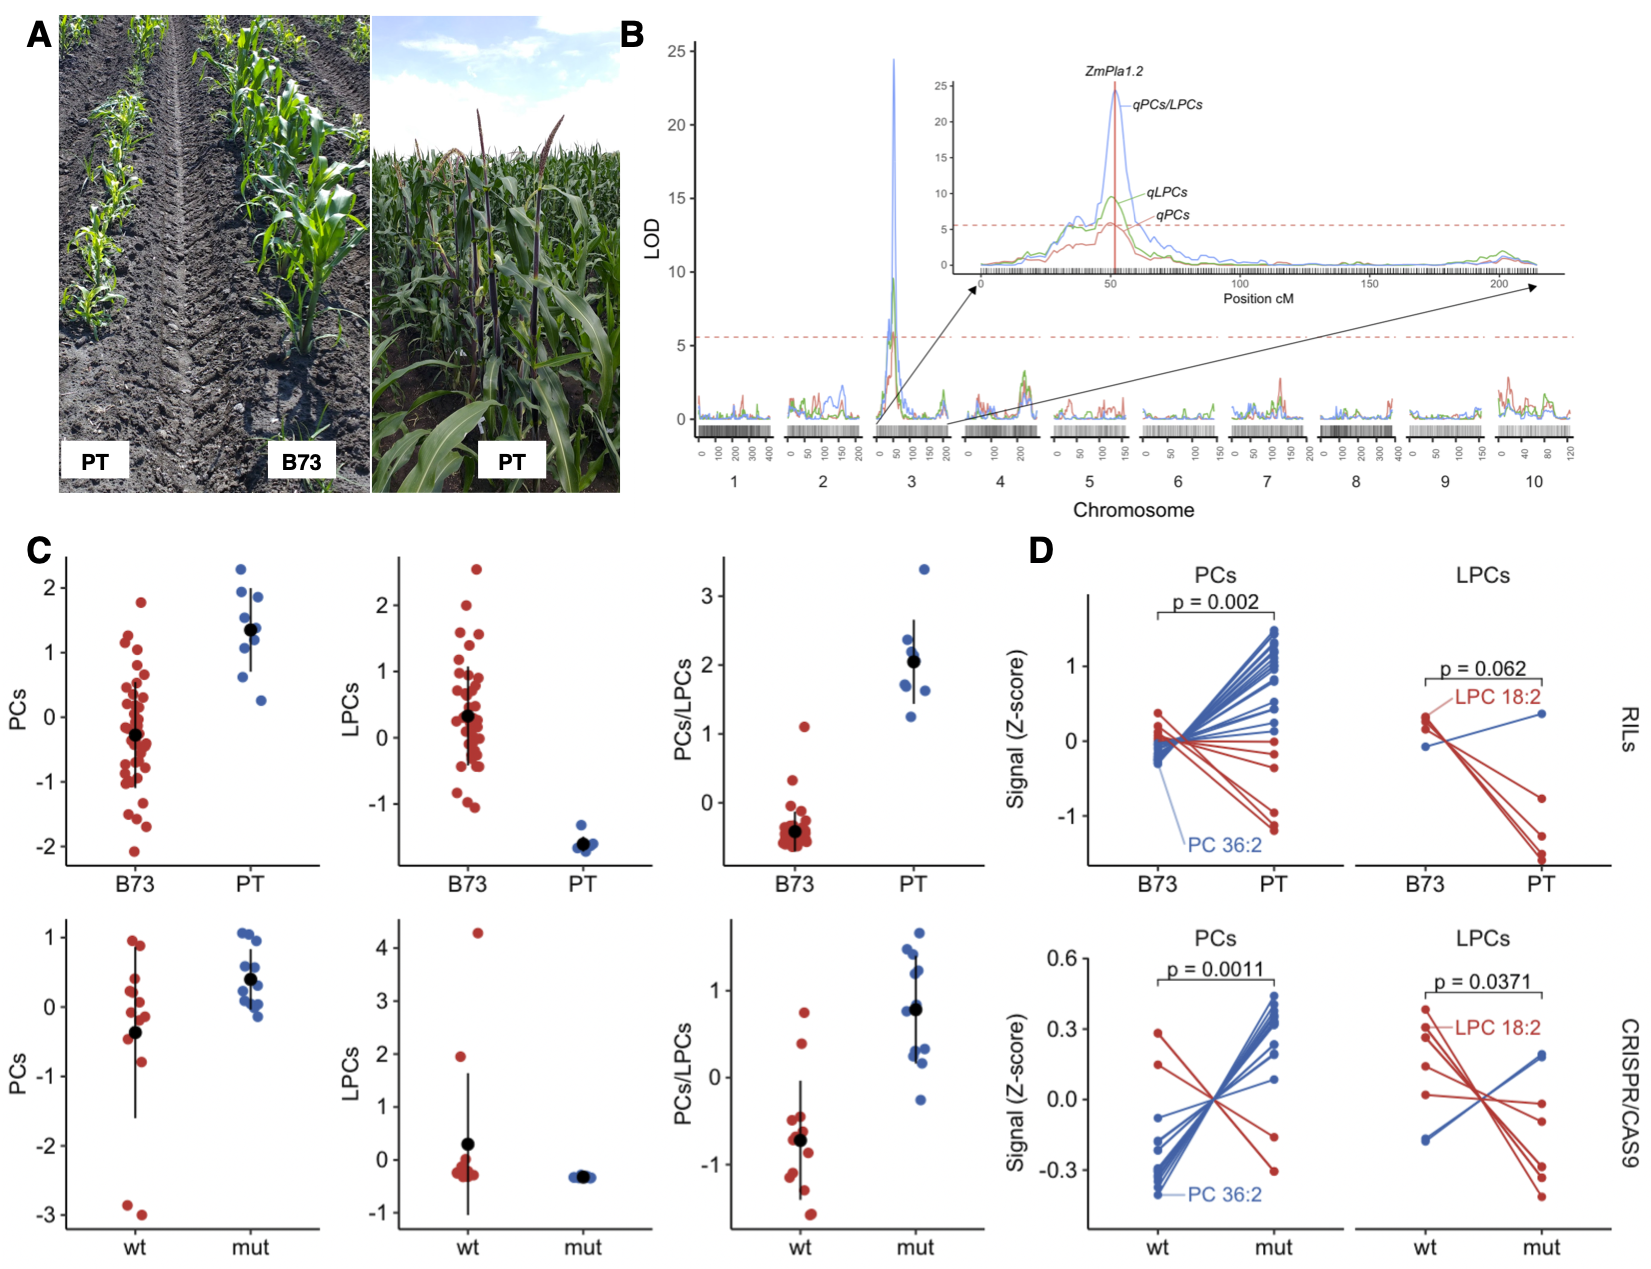
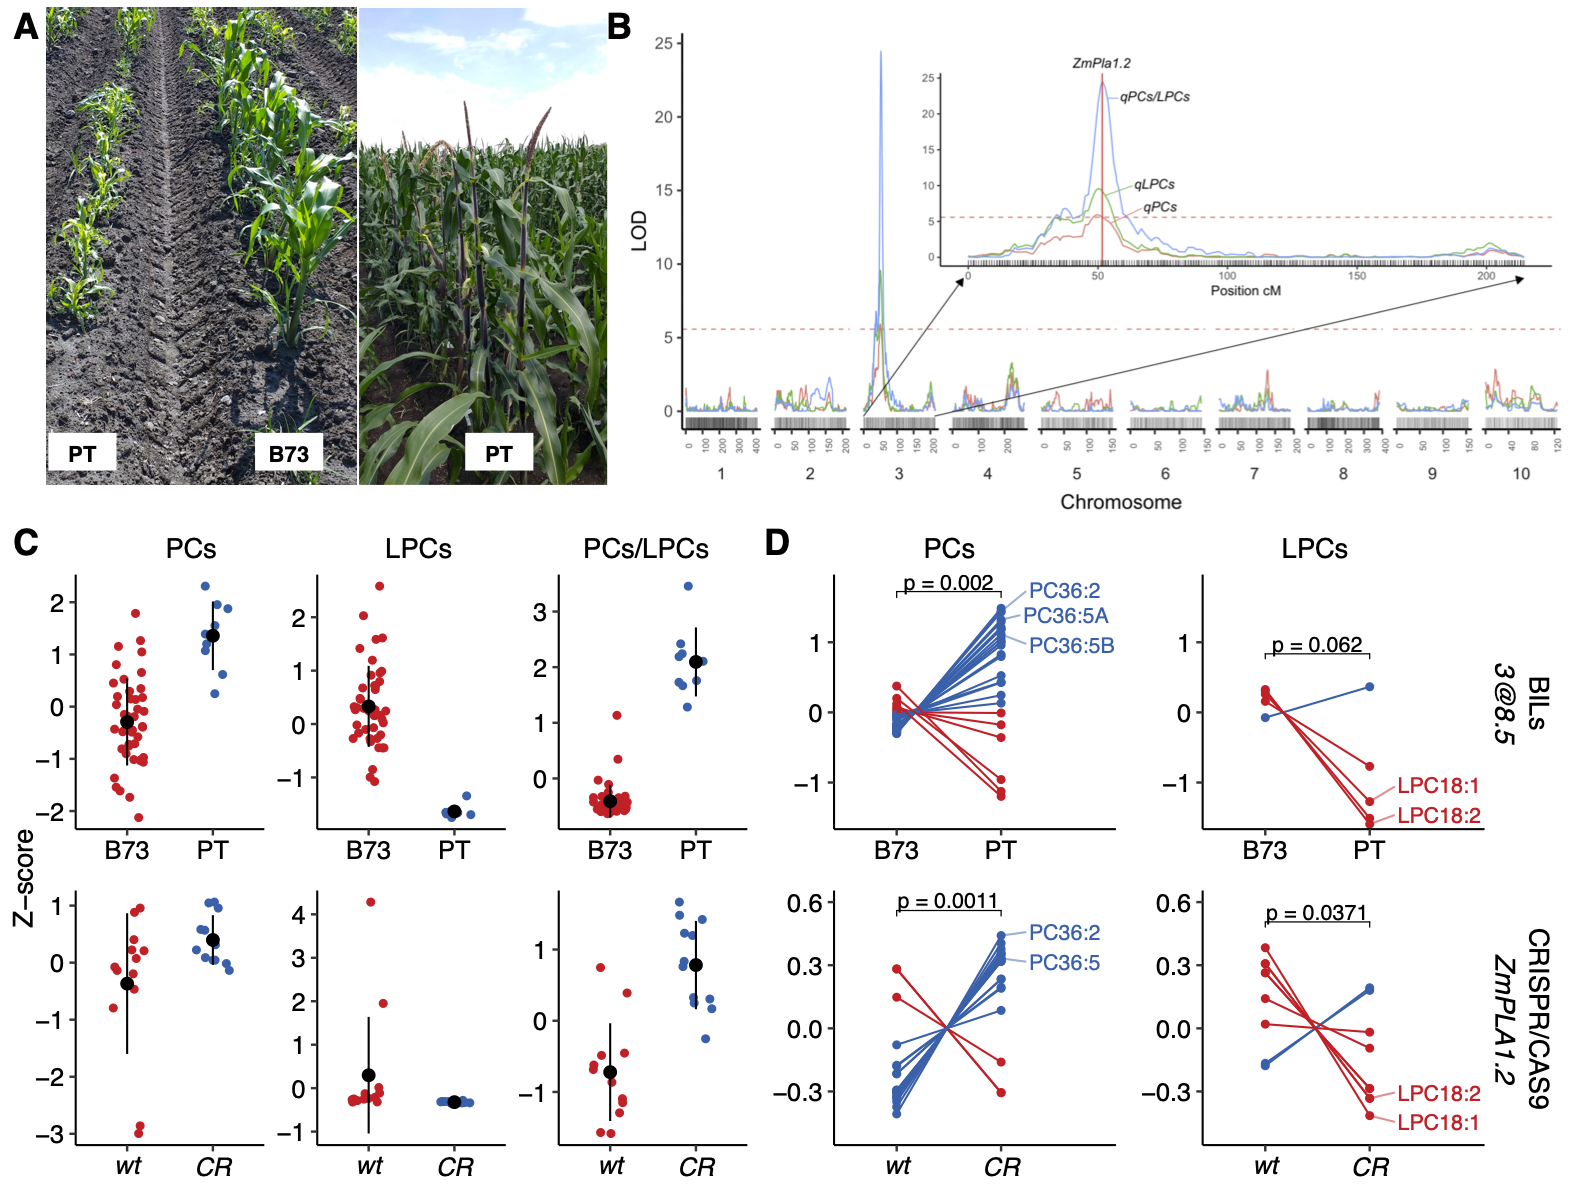
Updates from Overleaf

diff --git a/main.tex b/main.tex
@@ -138,7 +138,7 @@ Finally, there is evidence that early flowering alleles that confer an adaptive 
 %Maize has also adapted to a wide variety of uses, from the myriad culinary applications of local communities growing maize landraces particularly in México \cite{Bellon2018-cm} to the diverse range of products (from ethanol to high fructose syrup) that are produced with modern hybrids in modern agroindustrial operations. 
 %The genetic changes that lead to maize domestication \cite{Doebley1995-su,Doebley1997-oy, Wang2005-by, Clark2006-xh,Dorweiler1993-ik} and maize adaptation to a wider latitudinal range  provide a relatively good understanding of the genetic regions and mechanisms that shaped maize domestication and latitudinal expansion.
 
-Plant glycerolipids, which include phopsholipids, sulfolipids, galactolipids and other less polar lipids such as triacylglycerol, are involved in plant response to abiotic stresses typical of highland environments like low temperature and low phosphorus availability and flowering time.
+Plant glycerolipids, which include phopsholipids, sulfolipids, galactolipids and other less polar lipids such as triacylglycerol, are involved in plant response to stresses typical of highland environments like low temperature, low phosphorus availability and earlier flowering time.
 %In this paper, we posit that phospholipid metabolism has had an important role in maize adaptation to highlands and more generally in maize adaptation to low temperature, low phosphorus availability and flowering time.   
 %Our hypothesis is based on our current knowledge of how plants respond to a number of environmental conditions that are characteristic of highland environments and that affect phospholipid metabolism. 
 In low temperature, two strategies plants use are to increase phospholipid concentration \cite{Degenkolbe2012-wf} and to reduce the levels of unsaturated fatty acids in glycerolipids \cite{Welti2002-uk, Lynch1987-ln} which may help maintain the fluidity of cell membranes.
@@ -157,7 +157,7 @@ We further confirmed this loss of function using a CRISPR-CAS9 knockout in a tem
 Using data from thousands of genotyped landrace testcrosses grown in common garden experiments at different elevations in México, we showed a strong genotype by environment effect of the \textit{ZmPLA1.2} locus, 
 where the highland allele leads to higher fitness in highland environments and reduced fitness at lower elevations. 
 This GxE fitness effect is probably driven by the highland \textit{ZmPLA1.2} allele that is associated with later flowering times in lowland environments and earlier flowering times in highland environments. 
-\textit{ZmPLA1.2} CRISPR-Cas9 mutants grown in similar conditions to lowland environments confirmed this effect.
+\textit{ZmPLA1.2} CRISPR-Cas9 (\textit{ZmPLA1.2\textsuperscript{CR}})mutants grown in similar conditions to lowland environments confirmed this effect.
 Lastly, we showed that the highland PT \textit{ZmPLA1.2} locus is the result of teosinte \textit{mexicana} introgression and that this introgression was further conserved in northern US and European Flints. 
 These results suggest a potential beneficial effect of the \textit{ZmPLA1.2} highland allele in cold, high latitude environments where early flowering time would be advantageous.
 
@@ -188,10 +188,11 @@ The most over-represented intersection of selected genes was SWUS-MH-GH ($p = 1 
 \includegraphics[width=0.7\paperwidth]{Figures/Fig_1.png}
 \caption{Glycerolipid pathway selection. 
 A) Populations used in the Population Branch Excess (PBE)analysis. 
-B) Highland selection of Glycerolipid pathways using PBE. 
-For each pathway, we first selected all SNPs in the CDS regions and 10Kb upstream and downstream of the gene and we calculated the mean pathway PBE score. 
-We then constructed a null distribution by drawing 10000 samples without replacement of $n$ SNPs from those found within or around 10Kb upstream and downstream of all protein coding genes and we obtained the mean PBE for this null distribution. 
-For each pathway, the heat map shows p-values corresponding to the probability of sampling from the null distribution a set of $n$ SNPs with the observed glycerolipid pathway mean PBE score or higher.
+B) Highland selection of Glycerolipid pathways using PBE. See methods for details.
+%For each pathway, we first selected all SNPs in the CDS regions and 10Kb upstream and downstream of the gene and we calculated the mean pathway PBE score. 
+%We then constructed a null distribution by drawing 10000 samples without replacement of $n$ SNPs from those found within or around 10Kb upstream and downstream of all protein coding genes and we obtained the mean PBE for this null distribution. 
+%For each pathway, the heat map shows p-values corresponding to the probability of sampling from the null distribution a set of $n$ SNPs with the observed glycerolipid pathway mean PBE score or higher.
+C) PBE values of SNPs in \textit{ZmLPCAT1} and \textit{ZmPLA1.2}
 D) Map showing the geographical origin of the 120 accessions used in the common garden experiment to quantify glycerolipid levels.
 E) Logarithmic values of the PCs/LPCs ratio of highland and lowland landraces from MesoAmerica and South America.
 %TODO (fausto): Add Highland lowland to upper and lower "panels"
@@ -217,7 +218,7 @@ Pathways involved in triacylglycerol degradation and galactolipid biosynthesis w
 %\textit{ZmPLA1.2} also showed significant associations with glycerolipid content variation in a maize lipid GWAS analysis using the European Flint and Dent inbred panels \cite{Riedelsheimer2013-bd}.
 
 \subsubsection{Modes of convergent adaptation constraint} 
-Following Yeaman's \cite{yeaman2018} definition of the underlying causes of convergent adaptation we previously defined two possible modes of convergent adapation constraint in highland maize populations \cite{Wang2020-mp}. 
+Following Yeaman's \cite{yeaman2018} definition of the underlying causes of convergent adaptation we previously defined two possible modes of convergent adaptation constraint in highland maize populations \cite{Wang2020-mp}. 
 Convergence can be constrained by the number of genes influencing a trait, imposing a \textit{physiological} constraint; on the other hand, there can be many genes that can influence a trait but \textit{pleiotropic} constraint effects may limit the number of genes that can be repeatedly selected in different populations. 
 Using Yeaman's \textit{et al.} $C_{hyper}$ statistic \cite{yeaman2018} that quantifies these two modes of convergent adaptation, we found that the overlap observed among the presumably adapted genes in the populations can not be explained just by physiological constraint ($C_{hyper} = 3.96$) and that most likely it includes certain degree of pleiotropic constraint, where the observed convergent adapted genes must be the least penalized by antagonistic pleiotropic effects on fitness.
 The overlap was higher for the US-MesoAmerica population pairs ($C_{hyper} = 4.79$), than between the Andean and US-Mesomérica pair ($C_{hyper} = 3.14$).
@@ -237,6 +238,7 @@ To distinguish between these two competing scenarios, we compared each phenotype
 We calculated $Q_{ST}$-$F_{ST}$ using DartSeq genotypic data from the same plants that were used to analyze glycerolipid levels, and we calculated the $Q_{ST}$-$F_{ST}$ values for each glycerolipid species for highland/lowland populations of each subcontinent. 
 Mean $Q_{ST}$ was greater than mean $F_{ST}$ in mesoamerican and South American comparisons, though only the mesoamerican comparison is significant (two-tailed t-test, $p$ = 0.00073; South American comparison $p$ = 0.12).
 Yet, we observed several PC and LPC species with higher $Q_{ST}$ values than the neutral $F_{ST}$ in both sub continents (Supplementary Figure \ref{SupFig1}C-D, Supplementary File 2).
+In particular, one of the species with the highest $Q_{ST}$ values is PC 36:5. 
 %All together, these results further confirm that selection in genes of pathways involved in phospholipid remodelling is reflected on the phospholipids whose levels are determined by the action of the enzymes encoded by selected genes.
 \subsubsection{\textit{pcadapt} analysis of biological adaptation of Mexican landraces.} 
 We then used GBS data from 2700 geo-referenced landraces from México generated by the SeeD project \cite{Romero_Navarro2017-cn, Gates2019-xu} to run a \textit{pcadapt} analysis that detects how strongly loci are contributing to patterns of differentiation between major principal components of genetic variation \cite{Luu2017-ws}.
@@ -294,8 +296,8 @@ We further confirmed chloroplast localization by transiently expressing  the \te
 A) PT and B73 plants growing in the highland Metepec field. 
 B) QTL analysis using data collected from plants growing in the highland and lowland fields of PCs, LPCs and PCs/LPCs ratio identified overlapping major QTLs at 8.5 Mb in chromosome 3. 
 QTL peak coincides with the physical location of \textit{ZmPLA1.2}. 
-C)PCs, LPCs and PC/LPCs z-scores effect sizes of BILs at chr 3 8.5 Mb that are either homozygous B73 or PT (top row) and CRISPR-CAS9 \textit{ZmPLA1.2} mutant and wild plants (bottom row).        
-D)Individual PCs and LPCs species z-scores effect sizes of BILs at at chr 3 8.5 Mb (top row) and CRISPR-CAS9 \textit{ZmPLA1.2} mutant}
+C)PCs, LPCs and PC/LPCs z-scores effect sizes of BILs at chr 3 8.5 Mb that are either homozygous B73 or PT (top row) and CRISPR-CAS9 \textit{ZmPLA1.2\textsuperscript{CR}} mutant and wild plants (bottom row).        
+D)Individual PCs and LPCs species z-scores effect sizes of BILs at at chr 3 8.5 Mb (top row) and CRISPR-CAS9 \textit{ZmPLA1.2\textsuperscript{CR}} mutant}
 \label{Fig3}
 \end{center}
 \end{figure*} 
@@ -328,7 +330,7 @@ A) \textit{ZmPLA1.2} promoter and coding sequence showing different features. CT
 B) \textit{ZmPLA1.2} Expression analysis of B73, PT and their F1 grown in control and cold temperatures in growth chamber conditions. 
 C) PC/LPC ratios of several BILs including B042 that shows a recombination of event 500 bp upstream of the ATG.
 D) Bacterial optimal growth temperature (OGT) of different residues at the position in the flap-lid domain where the B73/PT mutation leading to a V211I conversion. Across the whole lipase domain, residues in bold in the flap lid domain (A) showed high correlation with bacterial OGT. 
-E) Alignments around the V211I mutation in the flap-lid domain in B73, mexicana and parviglumis and highland and lowland landraces southwest US, mesoamerican highlands and lowlands and Andes and South America lowlands} 
+E) Alignments around the V211I mutation in the flap-lid domain in B73, \textit{mexicana} and \textit{parviglumis} and highland and lowland landraces southwest US, mesoamerican highlands and lowlands and Andes and South America lowlands} 
 \label{Fig4}
 \end{center}
 \end{figure*} 
@@ -368,7 +370,7 @@ To address this we constructed phylogenetic tree using the Hapmap3 inbred lines 
 \caption{Introgression of teosinte \textit{mexicana} into maize \textit{ZmPLA1.2}  
 A) \(f_d\) analysis of \textit{mexicana} introgression. Data was obtained from \cite{Gonzalez-Segovia2019-jy}. 
 B) Haplotype network analysis of \textit{ZmPLA1.2} CDS SNPs using 1060 Mexican homozyogous individuals from the Seeds dataset.
-C) Phyologenetic tree of \textit{ZmPLA1.2} CDS using a sample of hapmap inbreds and Palomero Toluqueño
+C) Phyologenetic tree of \textit{ZmPLA1.2} CDS using a sample of Hapmap3 inbreds and Palomero Toluqueño
 D) \textit{ZmPLA1.2-PT} expression correlation with DTA in short and long days. Inbred lines from the PT lineage shown in panel C are colored in blue while inbred lines from the B73 lineage are colored in red.
 Data from \cite{Kremling2018-gn}}
 \label{Fig5}
@@ -411,9 +413,9 @@ We are currently performing further experiments in conditions simulating highlan
 \caption{A)Fitness effects of \textit{ZmPLA1.2-PT}. 
 We modeled each trait as a function of \textit{ZmPLA1.2-PT} genotype, trial elevation, and tester line, with controls for main effects and responses to elevation of the genomic background. 
 We used BLUPs and GBS data from ~ 2700 landraces from \cite{Gates2019-xu} evaluated in 23 common gardens at different elevations in México. 
-Purple lines and ribbons show estimates of the effect of the highland allele of \textit{ZmPLA1.2-PT} as a function of common garden elevation ± 2SE, based on conditional F-tests at the REML solutions of the random effect variance components using the \textit{GridLMM} package \cite{Runcie2019-Gr}. 
-Green lines show estimates of the \textit{ZmPLA1.2-PT} effect in a model that additionally included effects of Days-to-Anthesis on the focal trait within each trial.
-B) Flowering traits measured in the CRISPR-CAS9 mutant is long day conditions during the Summer of 2020 in Raleigh, NC}. 
+Gray lines and ribbons show estimates of the effect of the highland allele of \textit{ZmPLA1.2-PT} as a function of common garden elevation ± 2SE, using the \textit{GridLMM} package \cite{Runcie2019-Gr}. 
+Purple lines show estimates of the \textit{ZmPLA1.2-PT} effect in a model that additionally included effects of Days-to-Anthesis.
+B) Flowering traits measured in the CRISPR-CAS9 \textit{ZmPLA1.2\textsuperscript{CR}} mutant is long day conditions during the Summer of 2020 in Clayton, NC}. 
 \label{Fig6}
 \end{center}
 \end{figure}
@@ -494,6 +496,7 @@ As we mentioned before, PC metabolism is intimately connected to multiple stress
 %We observe similar trends between cold-acclimation-imposed lipid changes published in the literature and adaptation-imposed lipid changes in highlands maize. 
 The large qPC/LPC3@8.5 QTL is driven by individual QTLs of PC and LPC species with high levels of unsaturated fatty acids (Figure \ref{SupFig4}).
 Some of these species, like 36:5 PC and 18:1 LPC (Figure\ref{Fig3}D, Supplementary File 3), show similar patterns during Arabidopsis cold acclimation \cite{Welti2002-uk} and sorghum chilling response \cite{Marla2017-ph}.
+PC 36:5 was also identified was on of our highest $Q_{ST}$ values from the landrace panel (Supplementary Figure \ref{SupFig1}C-D, Supplementary File 2).
 %Increases in PC 36:5 and 36:6 combined with decreases in LPC 18:1 of highland maize resemble observed PC and LPC changes that occur during Arabidopsis cold acclimation \cite{Welti2002-uk} and sorghum chilling response \cite{Marla2017-ph}.
 %Highland maize shows an increase in PC and decrease of LPC. This trend is matched in Arabidopsis responding to cold acclimation where PC 36:5 and 36:6 increases, while LPC 18:1 decreases \cite{Welti2002-uk}. PC 36:5 and 36:6 increasing during cold stress also occurs in sorghum \cite{Marla2017-ph}. 
 %When exploring the lipid changes, they found that maize and sorghum, two relatively cold-sensitive species, displayed increases in desaturation in PC, while tripsacum, the relatively cold-tolerant species, displayed decreases in PC desaturation \cite{Yan2019-tx}. 
@@ -738,7 +741,7 @@ Frequency of Andosol soils at different elevations was calculated using the soil
 Phosphorus content in flag leaves of the the same \textit{Zmpla1.2\textsuperscript{CR}} and WT mutants used for the flowering time experiment were analyzed using ICP-OES at the North Carolina Department of Agriculture.   
 
 \section{Acknowledgments}
-This work was supported by Conacyt Young Investigator (CB-238101), Conacyt National Problems (APN-2983), UC-Mexus and NC State startup funds awarded to Rubén Rellán-Álvarez. Allison Barnes was supported by NSF-PGRP grant 201703.
+This work was supported by Conacyt Young Investigator (CB-238101), Conacyt National Problems (APN-2983), UC-Mexus and NC State startup funds awarded to Rubén Rellán-Álvarez. Allison Barnes was supported by NSF-PGRP grant 201703. Andi Kur was supported as an AgBioFEWS fellow by the NSF grant 1828820.
 We want to acknowledge the work of the Rellán-Álvarez and Sawers lab students that have helped generate the mapping populations developed in this manuscript.
 We specially want to thank the indigenous people of the Americas that through fascinating agricultural ingenuity domesticated and made possible the spread and adaptation of maize throughout the continent. 
 Field experiments were carried out in Wixárika (Puerto Vallarta, México); Nahuatl, Matlatzinca, and Mazahua (Metepec, México); and Tuscarora (Clayton, NC) land.
@@ -807,11 +810,7 @@ B) Genome wide analysis of \textit{Pcadapt} PC1 outliers.
 \begin{figure*}[t]
 \begin{center}
 \includegraphics[width=0.8\paperwidth]{Sup_Figures/Sup_Fig_3.png}
-\caption{A) Genomic Location of genes coding for enzymes predicted Phospholipase A1 activity. 
-B) Site of action of the different types of phospholipases.
-C) Subcellular localization of \textit{ZmPLA1.2}.
-D) B73 expression levels of genes coding for enzymes with predicted Phospholipase A1 activity across different tissues. \textit{ZmPLA1.2} is indicated in blue. 
-E) \textit{ZmPLA1.2} expression levels of temperate inbreds B73, Mo17, Oh43, and Ph207 under control, control and heat stress. Values taken from \cite{Waters2017-nat}. 
+\caption{A) Effect sizes of several individual PC, LPC, and PC/LPC QTL peaks.
 }
 \label{SupFig4}
 \end{center}
@@ -820,7 +819,12 @@ E) \textit{ZmPLA1.2} expression levels of temperate inbreds B73, Mo17, Oh43, and
 \begin{figure*}[t]
 \begin{center}
 \includegraphics[width=0.8\paperwidth]{Sup_Figures/Sup_Fig_4.png}
-\caption{A) Effect sizes of several individual PC, LPC, and PC/LPC QTL peaks.
+
+\caption{A) Genomic Location of genes coding for enzymes predicted Phospholipase A1 activity. 
+B) Site of action of the different types of phospholipases.
+C) Subcellular localization of \textit{ZmPLA1.2}.
+D) B73 expression levels of genes coding for enzymes with predicted Phospholipase A1 activity across different tissues. \textit{ZmPLA1.2} is indicated in blue. 
+E) \textit{ZmPLA1.2} expression levels of temperate inbreds B73, Mo17, Oh43, and Ph207 under control, control and heat stress. Values taken from \cite{Waters2017-nat}. 
 }
 \label{SupFig3}
 \end{center}
@@ -857,10 +861,10 @@ Data obtained from \cite{Kremling2018-gn}
 \begin{figure*}[t]
 \begin{center}
 \includegraphics[width=0.8\paperwidth]{Sup_Figures/Sup_Fig_8.png}
-\caption{A) Flag leaf hosphorus levels of B73 and 10 highland landraces each from México and Perú grown in control conditions.
+\caption{A) Flag leaf phosphorus levels of B73 and 10 highland landraces each from México and Perú grown in control conditions.
 B) Andosol soil frequency measured using the geographic coordinates of landrace accessions from the SEEDS dataset calculated using the soilP package \cite{Rodriguez-Zapata2018-vz}.
-C) Phosphorus content on the CRISPR \textit{ZmPLA1.2} mutants grown in long day conditions in Raleigh.
-D) PCA analysis of ionomics data of the CRISPR \textit{ZmPLA1.2} mutants and control plants grown in long day conditions in Raleigh
+C) Phosphorus content on the \textit{ZmPLA1.2\textsuperscript{CR}} mutants grown in long day conditions in Clayton, NC.
+D) PCA analysis of ionomics data of the \textit{ZmPLA1.2\textsuperscript{CR}} mutants and control plants grown in long day conditions in Raleigh
 }
 \label{SupFig8}
 \end{center}
